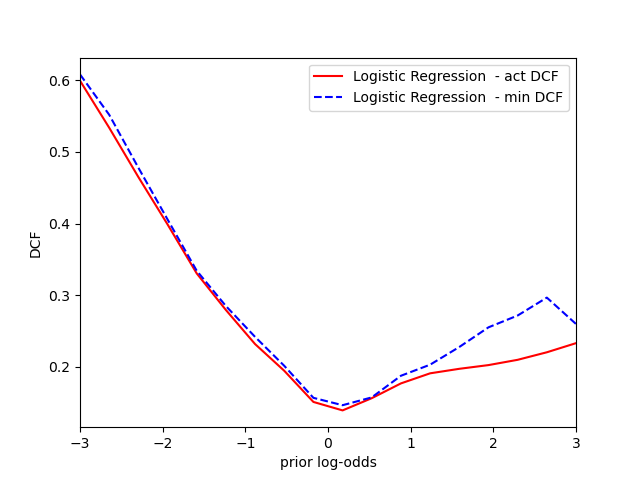
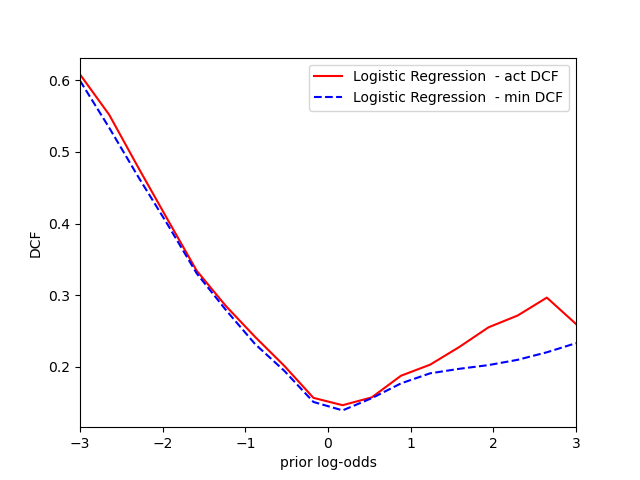
fix: a lettio

diff --git a/evaluation_analysis.py b/evaluation_analysis.py
@@ -35,16 +35,17 @@ def poly_svm_callback(prior):
     scores = model.predictAndGetScores(DTE)
 
     mindcf = metrics.minimum_detection_costs(scores, LTE, prior, 1, 1)
-    actdcf, TPR, fpr = metrics.compute_actual_DCF(scores, LTE, prior, 1, 1, retRates=True)
+    actdcf, TPR, fpr = metrics.compute_actual_DCF(
+        scores, LTE, prior, 1, 1, retRates=True)
     # Calibrate
     calibratedScores = utilities.calibrateScores(scores, LTE, scores, 0.0001)
-    calmindcf = metrics.minimum_detection_costs(calibratedScores, LTE, prior, 1, 1)
-    calactdcf, cal_TPR, cal_fpr = metrics.compute_actual_DCF(calibratedScores, LTE, prior, 1, 1, retRates=True)
+    calmindcf = metrics.minimum_detection_costs(
+        calibratedScores, LTE, prior, 1, 1)
+    calactdcf, cal_TPR, cal_fpr = metrics.compute_actual_DCF(
+        calibratedScores, LTE, prior, 1, 1, retRates=True)
 
     return (mindcf, actdcf, calmindcf, calactdcf, TPR, fpr, cal_TPR, cal_fpr)
 
-
-    
 
 def mvg_callback(prior):
     DTR, LTR = TRAINING_DATA()
@@ -54,17 +55,21 @@ def mvg_callback(prior):
     scores = model.predictAndGetScores(DTE)
 
     mindcf = metrics.minimum_detection_costs(scores, LTE, prior, 1, 1)
-    actdcf, TPR, fpr = metrics.compute_actual_DCF(scores, LTE, prior, 1, 1, retRates=True)
+    actdcf, TPR, fpr = metrics.compute_actual_DCF(
+        scores, LTE, prior, 1, 1, retRates=True)
     # Calibrate
     calibratedScores = utilities.calibrateScores(scores, LTE, scores, 0.0001)
-    calmindcf = metrics.minimum_detection_costs(calibratedScores, LTE, prior, 1, 1)
-    calactdcf, cal_TPR, cal_fpr = metrics.compute_actual_DCF(calibratedScores, LTE, prior, 1, 1, retRates=True)
+    calmindcf = metrics.minimum_detection_costs(
+        calibratedScores, LTE, prior, 1, 1)
+    calactdcf, cal_TPR, cal_fpr = metrics.compute_actual_DCF(
+        calibratedScores, LTE, prior, 1, 1, retRates=True)
 
     return (mindcf, actdcf, calmindcf, calactdcf, TPR, fpr, cal_TPR, cal_fpr)
 
 
 def logreg_callback(prior):
-    model = LogisticRegression.LogisticRegression(0.1, 0.5, weighted=True, quadratic=True)
+    model = LogisticRegression.LogisticRegression(
+        0.1, 0.5, weighted=True, quadratic=True)
     DTR, LTR = TRAINING_DATA()
     DTE, LTE = TEST_DATA()
     DTR = dr.PCA(DTR, 5)[0]
@@ -73,11 +78,14 @@ def logreg_callback(prior):
     scores = model.predictAndGetScores(DTE)
 
     mindcf = metrics.minimum_detection_costs(scores, LTE, prior, 1, 1)
-    actdcf, TPR, fpr = metrics.compute_actual_DCF(scores, LTE, prior, 1, 1, retRates=True)
+    actdcf, TPR, fpr = metrics.compute_actual_DCF(
+        scores, LTE, prior, 1, 1, retRates=True)
     # Calibrate
     calibratedScores = utilities.calibrateScores(scores, LTE, scores, 0.0001)
-    calmindcf = metrics.minimum_detection_costs(calibratedScores, LTE, prior, 1, 1)
-    calactdcf, cal_TPR, cal_fpr = metrics.compute_actual_DCF(calibratedScores, LTE, prior, 1, 1, retRates=True)
+    calmindcf = metrics.minimum_detection_costs(
+        calibratedScores, LTE, prior, 1, 1)
+    calactdcf, cal_TPR, cal_fpr = metrics.compute_actual_DCF(
+        calibratedScores, LTE, prior, 1, 1, retRates=True)
 
     return (mindcf, actdcf, calmindcf, calactdcf, TPR, fpr, cal_TPR, cal_fpr)
 
@@ -93,11 +101,14 @@ def GMM_callback(prior):
     scores = model.predictAndGetScores(DTE)
 
     mindcf = metrics.minimum_detection_costs(scores, LTE, prior, 1, 1)
-    actdcf, TPR, fpr = metrics.compute_actual_DCF(scores, LTE, prior, 1, 1, retRates=True)
+    actdcf, TPR, fpr = metrics.compute_actual_DCF(
+        scores, LTE, prior, 1, 1, retRates=True)
     # Calibrate
     calibratedScores = utilities.calibrateScores(scores, LTE, scores, 0.0001)
-    calmindcf = metrics.minimum_detection_costs(calibratedScores, LTE, prior, 1, 1)
-    calactdcf, cal_TPR, cal_fpr = metrics.compute_actual_DCF(calibratedScores, LTE, prior, 1, 1, retRates=True)
+    calmindcf = metrics.minimum_detection_costs(
+        calibratedScores, LTE, prior, 1, 1)
+    calactdcf, cal_TPR, cal_fpr = metrics.compute_actual_DCF(
+        calibratedScores, LTE, prior, 1, 1, retRates=True)
 
     return (mindcf, actdcf, calmindcf, calactdcf, TPR, fpr, cal_TPR, cal_fpr)
 
@@ -112,14 +123,16 @@ def rbf_svm_callback(prior):
     scores = model.predictAndGetScores(DTE)
 
     mindcf = metrics.minimum_detection_costs(scores, LTE, prior, 1, 1)
-    actdcf, TPR, fpr = metrics.compute_actual_DCF(scores, LTE, prior, 1, 1, retRates=True)
+    actdcf, TPR, fpr = metrics.compute_actual_DCF(
+        scores, LTE, prior, 1, 1, retRates=True)
     # Calibrate
     calibratedScores = utilities.calibrateScores(scores, LTE, scores, 0.0001)
-    calmindcf = metrics.minimum_detection_costs(calibratedScores, LTE, prior, 1, 1)
-    calactdcf, cal_TPR, cal_fpr = metrics.compute_actual_DCF(calibratedScores, LTE, prior, 1, 1, retRates=True)
+    calmindcf = metrics.minimum_detection_costs(
+        calibratedScores, LTE, prior, 1, 1)
+    calactdcf, cal_TPR, cal_fpr = metrics.compute_actual_DCF(
+        calibratedScores, LTE, prior, 1, 1, retRates=True)
 
     return (mindcf, actdcf, calmindcf, calactdcf, TPR, fpr, cal_TPR, cal_fpr)
-
 
 
 def main():
@@ -146,11 +159,10 @@ def main():
             _, final_results_mvg = utilities.grid_search(mvg_callback, priors)
             np.savetxt(mvg_filename, final_results_mvg, delimiter=";", fmt="%s",
                        header=";".join(["Prior", "minDCF", "actDCF", "calMinDCF", "calActDCF", "TPR", "FPR", "calTPR", "calFPR"]))
-        utilities.bayesErrorPlot([float(i[1]) for i in final_results_mvg], [float(i[2])
+        utilities.bayesErrorPlot([float(i[2]) for i in final_results_mvg], [float(i[1])
                                  for i in final_results_mvg], effPriorLogOdds, mvg_model_name.replace("?", ""), filename=mvg_bep_filename.replace("?", ""))
-        utilities.bayesErrorPlot([float(i[3]) for i in final_results_mvg], [float(i[4])
-                                    for i in final_results_mvg], effPriorLogOdds, mvg_model_name.replace("?", "- Calibrated"), filename=mvg_bep_filename.replace("?", "calib"))
-        
+        utilities.bayesErrorPlot([float(i[4]) for i in final_results_mvg], [float(i[3])
+                                                                            for i in final_results_mvg], effPriorLogOdds, mvg_model_name.replace("?", "- Calibrated"), filename=mvg_bep_filename.replace("?", "calib"))
 
     if chooser[1]:
         lr_filename = TABLES_OUTPUT_PATH + "logreg_best.csv"
@@ -159,31 +171,32 @@ def main():
         if use_csv:
             final_results_logreg = utilities.load_from_csv(lr_filename)
         else:
-            _, final_results_logreg = utilities.grid_search(logreg_callback, priors)
+            _, final_results_logreg = utilities.grid_search(
+                logreg_callback, priors)
             np.savetxt(lr_filename, final_results_logreg, delimiter=";", fmt="%s", header=";".join(
                 ["Prior", "MinDCF", "ActDCF", "CalMinDCF", "CalActDCF", "TPR", "FPR", "CalTPR", "CalFPR"]))
-        utilities.bayesErrorPlot([float(i[1]) for i in final_results_logreg], [float(i[2])
+        utilities.bayesErrorPlot([float(i[2]) for i in final_results_logreg], [float(i[1])
                                  for i in final_results_logreg], effPriorLogOdds, lr_model_name.replace("?", ""), filename=lr_bep_filename.replace("?", ""))
-        utilities.bayesErrorPlot([float(i[3]) for i in final_results_logreg], [float(i[4])
-                                    for i in final_results_logreg], effPriorLogOdds, lr_model_name.replace("?", "- Calibrated"), filename=lr_bep_filename.replace("?", "calib"))
-        
+        utilities.bayesErrorPlot([float(i[4]) for i in final_results_logreg], [float(i[3])
+                                                                               for i in final_results_logreg], effPriorLogOdds, lr_model_name.replace("?", "- Calibrated"), filename=lr_bep_filename.replace("?", "calib"))
 
     if chooser[2]:
         poly_filename = TABLES_OUTPUT_PATH + "poly_svm.csv"
         poly_model_name = "Polynomial SVM ?"
         poly_bep_filename = TABLES_OUTPUT_PATH + "poly_bep ?.png"
-        
+
         if use_csv:
             final_results_poly = utilities.load_from_csv(poly_filename)
         else:
-            _, final_results_poly = utilities.grid_search(poly_svm_callback, priors)
+            _, final_results_poly = utilities.grid_search(
+                poly_svm_callback, priors)
             np.savetxt(poly_filename, final_results_poly, delimiter=";",
                        fmt="%s", header=";".join(["Prior", "minDCF", "actDCF", "calMinDCF", "calActDCF", "TPR", "FPR", "calTPR", "calFPR"]))
-        utilities.bayesErrorPlot([float(i[1]) for i in final_results_poly], [float(i[2])
+        utilities.bayesErrorPlot([float(i[2]) for i in final_results_poly], [float(i[1])
                                  for i in final_results_poly], effPriorLogOdds, poly_model_name.replace("?", ""), filename=poly_bep_filename.replace("?", ""))
-        utilities.bayesErrorPlot([float(i[3]) for i in final_results_poly], [float(i[4])
-                                    for i in final_results_poly], effPriorLogOdds, poly_model_name.replace("?", "- Calibrated"), filename=poly_bep_filename.replace("?", "calib"))
-        
+        utilities.bayesErrorPlot([float(i[4]) for i in final_results_poly], [float(i[3])
+                                                                             for i in final_results_poly], effPriorLogOdds, poly_model_name.replace("?", "- Calibrated"), filename=poly_bep_filename.replace("?", "calib"))
+
     if chooser[3]:
         gmm_filename = TABLES_OUTPUT_PATH + "gmm_best.csv"
         gmm_model_name = "GMM ?"
@@ -194,10 +207,10 @@ def main():
             _, final_results_gmm = utilities.grid_search(GMM_callback, priors)
             np.savetxt(gmm_filename, final_results_gmm, delimiter=";", fmt="%s",
                        header=";".join(["Prior", "minDCF", "actDCF", "calMinDCF", "calActDCF", "TPR", "FPR", "calTPR", "calFPR"]))
-        utilities.bayesErrorPlot([float(i[1]) for i in final_results_gmm], [float(i[2])
+        utilities.bayesErrorPlot([float(i[2]) for i in final_results_gmm], [float(i[1])
                                  for i in final_results_gmm], effPriorLogOdds, gmm_model_name.replace("?", ""), filename=gmm_bep_filename.replace("?", ""))
-        utilities.bayesErrorPlot([float(i[3]) for i in final_results_gmm], [float(i[4])
-                                    for i in final_results_gmm], effPriorLogOdds, gmm_model_name.replace("?", "- Calibrated"), filename=gmm_bep_filename.replace("?", "calib"))
+        utilities.bayesErrorPlot([float(i[4]) for i in final_results_gmm], [float(i[3])
+                                                                            for i in final_results_gmm], effPriorLogOdds, gmm_model_name.replace("?", "- Calibrated"), filename=gmm_bep_filename.replace("?", "calib"))
     if chooser[4]:
         # rbf
         rbf_filename = TABLES_OUTPUT_PATH + "rbf_svm.csv"
@@ -206,15 +219,16 @@ def main():
         if use_csv:
             final_results_rbf = utilities.load_from_csv(rbf_filename)
         else:
-            _, final_results_rbf = utilities.grid_search(rbf_svm_callback, priors)
+            _, final_results_rbf = utilities.grid_search(
+                rbf_svm_callback, priors)
             np.savetxt(rbf_filename, final_results_rbf, delimiter=";", fmt="%s",
                        header=";".join(["Prior", "minDCF", "actDCF", "calMinDCF", "calActDCF", "TPR", "FPR", "calTPR", "calFPR"]))
-        utilities.bayesErrorPlot([float(i[1]) for i in final_results_rbf], [float(i[2])
+        utilities.bayesErrorPlot([float(i[2]) for i in final_results_rbf], [float(i[1])
                                  for i in final_results_rbf], effPriorLogOdds, rbf_model_name.replace("?", ""), filename=rbf_bep_filename.replace("?", ""))
-        utilities.bayesErrorPlot([float(i[3]) for i in final_results_rbf], [float(i[4])
-                                    for i in final_results_rbf], effPriorLogOdds, rbf_model_name.replace("?", "- Calibrated"), filename=rbf_bep_filename.replace("?", "calib"))
+        utilities.bayesErrorPlot([float(i[4]) for i in final_results_rbf], [float(i[3])
+                                                                            for i in final_results_rbf], effPriorLogOdds, rbf_model_name.replace("?", "- Calibrated"), filename=rbf_bep_filename.replace("?", "calib"))
 
-    if(len([c for c in chooser if c]) > 1):
+    if (len([c for c in chooser if c]) > 1):
         c = "".join(['T' if i else 'F' for i in chooser])
         comparison_filename = TABLES_OUTPUT_PATH + f"comparison_?_-{c}.png"
         comparison = []
@@ -222,47 +236,59 @@ def main():
         fpr_list = []
         fpr_list_calib = []
         if chooser[0]:
-            comparison.append(([float(i[1]) for i in final_results_mvg],
-                              [float(i[2]) for i in final_results_mvg], mvg_model_name.replace("?", "")))
-            comparison_calib.append(([float(i[3]) for i in final_results_mvg],
-                                        [float(i[4]) for i in final_results_mvg], mvg_model_name.replace("?", "- Calibrated")))
-            fpr_list.append(([float(i[5]) for i in final_results_mvg], [float(i[6]) for i in final_results_mvg], mvg_model_name.replace("?", "")))
-            fpr_list_calib.append(([float(i[7]) for i in final_results_mvg], [float(i[8]) for i in final_results_mvg], mvg_model_name.replace("?", "- Calibrated")))
-            
+            comparison.append(([float(i[2]) for i in final_results_mvg], [float(
+                i[1]) for i in final_results_mvg], mvg_model_name.replace("?", "")))
+            comparison_calib.append(([float(i[4]) for i in final_results_mvg],
+                                     [float(i[3]) for i in final_results_mvg], mvg_model_name.replace("?", "- Calibrated")))
+            fpr_list.append(([float(i[5]) for i in final_results_mvg], [float(
+                i[6]) for i in final_results_mvg], mvg_model_name.replace("?", "")))
+            fpr_list_calib.append(([float(i[7]) for i in final_results_mvg], [float(
+                i[8]) for i in final_results_mvg], mvg_model_name.replace("?", "- Calibrated")))
+
         if chooser[1]:
-            comparison.append(([float(i[1]) for i in final_results_logreg],
-                              [float(i[2]) for i in final_results_logreg], lr_model_name))
-            comparison_calib.append(([float(i[3]) for i in final_results_logreg],
-                                        [float(i[4]) for i in final_results_logreg], lr_model_name.replace("?", "- Calibrated")))
-            fpr_list.append(([float(i[5]) for i in final_results_logreg], [float(i[6]) for i in final_results_logreg], lr_model_name.replace("?", "")))
-            fpr_list_calib.append(([float(i[7]) for i in final_results_logreg], [float(i[8]) for i in final_results_logreg], lr_model_name.replace("?", "- Calibrated")))
+            comparison.append(([float(i[2]) for i in final_results_logreg], [
+                              float(i[1]) for i in final_results_logreg], lr_model_name))
+            comparison_calib.append(([float(i[4]) for i in final_results_logreg],
+                                     [float(i[3]) for i in final_results_logreg], lr_model_name.replace("?", "- Calibrated")))
+            fpr_list.append(([float(i[5]) for i in final_results_logreg], [float(
+                i[6]) for i in final_results_logreg], lr_model_name.replace("?", "")))
+            fpr_list_calib.append(([float(i[7]) for i in final_results_logreg], [float(
+                i[8]) for i in final_results_logreg], lr_model_name.replace("?", "- Calibrated")))
         if chooser[2]:
-            comparison.append(([float(i[1]) for i in final_results_poly],
-                              [float(i[2]) for i in final_results_poly], poly_model_name))
-            comparison_calib.append(([float(i[3]) for i in final_results_poly],
-                                        [float(i[4]) for i in final_results_poly], poly_model_name.replace("?", "- Calibrated")))
-            fpr_list.append(([float(i[5]) for i in final_results_poly], [float(i[6]) for i in final_results_poly], poly_model_name.replace("?", "")))
-            fpr_list_calib.append(([float(i[7]) for i in final_results_poly], [float(i[8]) for i in final_results_poly], poly_model_name.replace("?", "- Calibrated")))
+            comparison.append(([float(i[2]) for i in final_results_poly], [
+                              float(i[1]) for i in final_results_poly], poly_model_name))
+            comparison_calib.append(([float(i[4]) for i in final_results_poly],
+                                     [float(i[3]) for i in final_results_poly], poly_model_name.replace("?", "- Calibrated")))
+            fpr_list.append(([float(i[5]) for i in final_results_poly], [float(
+                i[6]) for i in final_results_poly], poly_model_name.replace("?", "")))
+            fpr_list_calib.append(([float(i[7]) for i in final_results_poly], [float(
+                i[8]) for i in final_results_poly], poly_model_name.replace("?", "- Calibrated")))
         if chooser[3]:
-            comparison.append(([float(i[1]) for i in final_results_gmm],
-                              [float(i[2]) for i in final_results_gmm], gmm_model_name))
-            comparison_calib.append(([float(i[3]) for i in final_results_gmm],
-                                        [float(i[4]) for i in final_results_gmm], gmm_model_name.replace("?", "- Calibrated")))
-            fpr_list.append(([float(i[5]) for i in final_results_gmm], [float(i[6]) for i in final_results_gmm], gmm_model_name.replace("?", "")))
-            fpr_list_calib.append(([float(i[7]) for i in final_results_gmm], [float(i[8]) for i in final_results_gmm], gmm_model_name.replace("?", "- Calibrated")))
+            comparison.append(([float(i[2]) for i in final_results_gmm], [
+                              float(i[1]) for i in final_results_gmm], gmm_model_name))
+            comparison_calib.append(([float(i[4]) for i in final_results_gmm],
+                                     [float(i[3]) for i in final_results_gmm], gmm_model_name.replace("?", "- Calibrated")))
+            fpr_list.append(([float(i[5]) for i in final_results_gmm], [float(
+                i[6]) for i in final_results_gmm], gmm_model_name.replace("?", "")))
+            fpr_list_calib.append(([float(i[7]) for i in final_results_gmm], [float(
+                i[8]) for i in final_results_gmm], gmm_model_name.replace("?", "- Calibrated")))
         if chooser[4]:
-            comparison.append(([float(i[1]) for i in final_results_rbf],
-                              [float(i[2]) for i in final_results_rbf], rbf_model_name))
-            comparison_calib.append(([float(i[3]) for i in final_results_rbf],
-                                        [float(i[4]) for i in final_results_rbf], rbf_model_name.replace("?", "- Calibrated")))
-            fpr_list.append(([float(i[5]) for i in final_results_rbf], [float(i[6]) for i in final_results_rbf], rbf_model_name.replace("?", "")))
-            fpr_list_calib.append(([float(i[7]) for i in final_results_rbf], [float(i[8]) for i in final_results_rbf], rbf_model_name.replace("?", "- Calibrated")))
+            comparison.append(([float(i[2]) for i in final_results_rbf], [
+                              float(i[1]) for i in final_results_rbf], rbf_model_name))
+            comparison_calib.append(([float(i[4]) for i in final_results_rbf],
+                                     [float(i[3]) for i in final_results_rbf], rbf_model_name.replace("?", "- Calibrated")))
+            fpr_list.append(([float(i[5]) for i in final_results_rbf], [float(
+                i[6]) for i in final_results_rbf], rbf_model_name.replace("?", "")))
+            fpr_list_calib.append(([float(i[7]) for i in final_results_rbf], [float(
+                i[8]) for i in final_results_rbf], rbf_model_name.replace("?", "- Calibrated")))
         utilities.multiple_bep(effPriorLogOdds, comparison,
                                filename=comparison_filename.replace("?", ""))
         utilities.multiple_bep(effPriorLogOdds, comparison_calib,
-                                 filename=comparison_filename.replace("?", "calib"))
-        utilities.plot_roc(fpr_list, filename=comparison_filename.replace("?", "det"))
-        utilities.plot_roc(fpr_list_calib, filename=comparison_filename.replace("?", "det_calib"))
+                               filename=comparison_filename.replace("?", "calib"))
+        utilities.plot_roc(
+            fpr_list, filename=comparison_filename.replace("?", "det"))
+        utilities.plot_roc(
+            fpr_list_calib, filename=comparison_filename.replace("?", "det_calib"))
 
     # return (final_results_mvg, final_results_logreg, final_results_poly, final_results_gmm)
 
